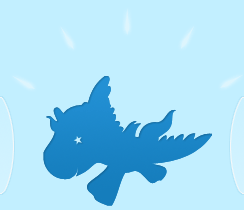
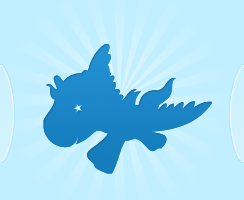
Compacting space, visual tweaks

diff --git a/static/css/local.css b/static/css/local.css
@@ -15,17 +15,17 @@ html, body {
 
 
 #masthead_wrap {
-	height: 220px;
+	height: 180px;
 	overflow: hidden;
 	width: 100%;
-	background: url(../img/masthead_bg.png) repeat-x left 105px;
+	background: url(../img/masthead_bg.png) repeat-x left 64px;
 	margin: 0 0 30px 0;
 	padding: 0;
 }
 
 #masthead {
 	width: 960px;
-	height: 220px;
+	height: 180px;
 	overflow: hidden;
 	margin: 0 auto;
 	padding: 0;
@@ -37,8 +37,8 @@ html, body {
 	display: block;
 	position: absolute;
 	width: 244px;
-	height: 210px;
-	top: 10px;
+	height: 200px;
+	top: 0;
 	left: 358px;
 	margin: 0;
 	padding: 0;
@@ -51,7 +51,7 @@ html, body {
 	position: absolute;
 	width: 363px;
 	height: 99px;
-	top: 105px;
+	top: 63px;
 	margin: 0;
 	padding: 0;
 }
@@ -75,14 +75,14 @@ html, body {
 }
 
 h2#where {
-	top: 145px;
+	top: 103px;
 	font-size: 42px;
 	left: 648px;
 	letter-spacing: 0.1em;
 }
 
 h2#when {
-	top: 127px;	
+	top: 85px;	
 	font-size: 15px;
 	color: #909ca2;
 	left: 650px;
@@ -90,7 +90,7 @@ h2#when {
 
 #tagline_wrap {
 	width: 960px;
-	height: 143px;
+	height: 113px;
 	overflow: visible;
 	margin: 0 auto 30px;
 	padding: 0;
@@ -104,14 +104,14 @@ h2#when {
 	border: 1px solid #aaa;
 	padding: 4px;
 	position: absolute;
-	top: 30px;
-	left: -40px;
+	top: 20px;
+	left: -25px;
 	-moz-border-radius: 2px;
 	-webkit-border-radius: 2px;
 	-webkit-box-shadow: 2px 4px 3px rgba(0,0,0,0.1);
 	-moz-box-shadow: 2px 4px 3px rgba(0,0,0,0.1);
-	-webkit-transform: rotate(-15deg);
-	-moz-transform: rotate(-15deg);
+	-webkit-transform: translate(0, 5px) rotate(-15deg);
+	-moz-transform: translate(0, 5px) rotate(-15deg);
 
 }
 
@@ -119,7 +119,7 @@ h2#when {
 	font-size: 34px;
 	text-shadow: #fff 0 2px 0;
 	position: absolute;
-	line-height: 115px;
+	line-height: 85px;
 	top: 8px;
 	left: 50px;
 	width: 900px;

diff --git a/djangocon/templates/startpage.html b/djangocon/templates/startpage.html
@@ -31,7 +31,7 @@
     <div id="tagline_wrap">
         {% for t in taglines %}
             <div class="tagline">
-                <img class="tagline_gravatar" width=64 height=64 src="{% gravatar_for_email t.subscriber.email 64 %}">                
+                <img class="tagline_gravatar" width=48 height=48 src="{% gravatar_for_email t.subscriber.email 48 %}">                
                 <div class="tagline_text">{{ t.tagline }}</div>
             </div>
         {% endfor %}
